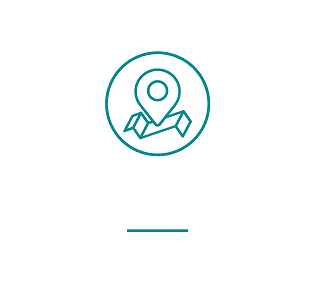
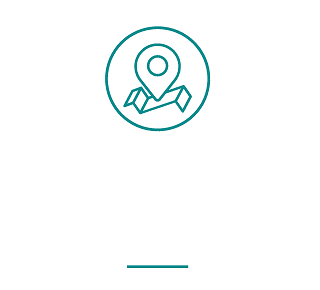
Ajustements FinalParcours qui retournait à la ligne si l'écran n'était pas assez large

diff --git a/rhomobile/public/css/rpoch.css b/rhomobile/public/css/rpoch.css
@@ -130,11 +130,10 @@ display:none;
         margin-right: auto;
 }
 .TxtParcoursPerso{
-	color:#008b87;
+	position:absolute;
+	color:#008B87;
+	bottom:60px;
 	font-family:sscat;
-	position:relative;
-    width:auto;
-    bottom:60px;
     padding:0;
     text-shadow:none;
 }
@@ -243,16 +242,15 @@ span#nb_magasins
 
 .ImgAjoutMag{
     content:url("/public/images/votre_parcours_fr.png");
-    width:150px;
+    width:90%;
 }
 
 .ImgBtnCarte{
    content:url("/public/images/carte_btn_fr.png");
-   width:150px;
+   width:90%;
 }
 .placementCarte{
 	position:relative;
-	left: 50px;
 }
 .ImgBtnInfo{
 	content:url("/public/images/svg/oeil.svg");
@@ -296,20 +294,33 @@ font-family:descriptif;
 
 #fpouter
 {
+	
     width:100%;
+    height:100px;
+    padding:0;
+    margin:0;
     text-align: center;
-    margin:auto;
     background-color:white;
+    clear:both;
 }
 .fpinner
 {
-    display: inline-block;
-    height:auto;
-    width:auto;
+	position:relative;
+	float:left;
+    height:100%;
+    text-align:center;
+    width:45%;
     background-color:white;
-
+    margin-left:2%;
 }
-
+.fpinner a
+{
+	position:absolute;
+	width:100%;
+	height:100%;
+	left:0;
+	top:0;
+}
 
 #footer {
     background-color: #F6F7F6;
